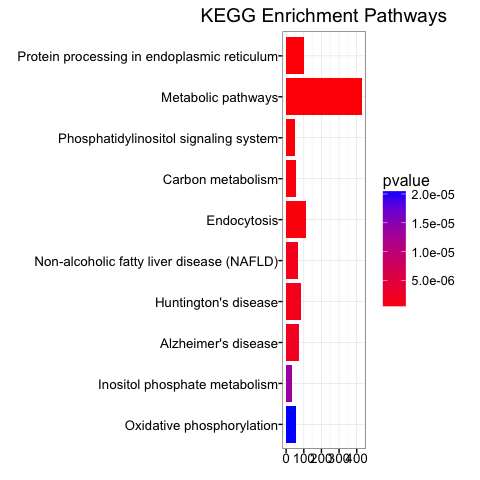
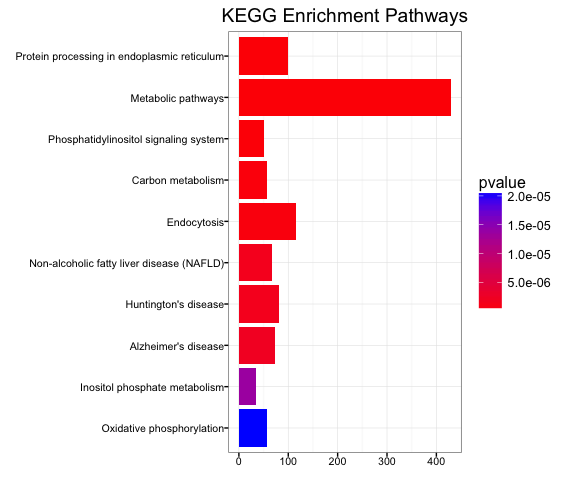
fixed barplot formatting

diff --git a/README.md b/README.md
@@ -801,12 +801,10 @@ head(summary(kegg_enrich))
 barplot(kegg_enrich, drop=TRUE, 
         showCategory=10, 
         title = "KEGG Enrichment Pathways",
-        font.size = 10)
+        font.size = 8)
 ```
 
 ![](README_files/figure-markdown_github/unnamed-chunk-32-1.png)
-
-------------------------------------------------------------------------
 
 #### 10b. Use ReactomeDB database
 
@@ -864,7 +862,7 @@ barplot(reactome_enrich,
         drop=TRUE, 
         showCategory=10, 
         title = "ReactomeDB Enrichment Pathways",
-        font.size = 10)
+        font.size = 8)
 ```
 
 ![](README_files/figure-markdown_github/unnamed-chunk-33-1.png)
